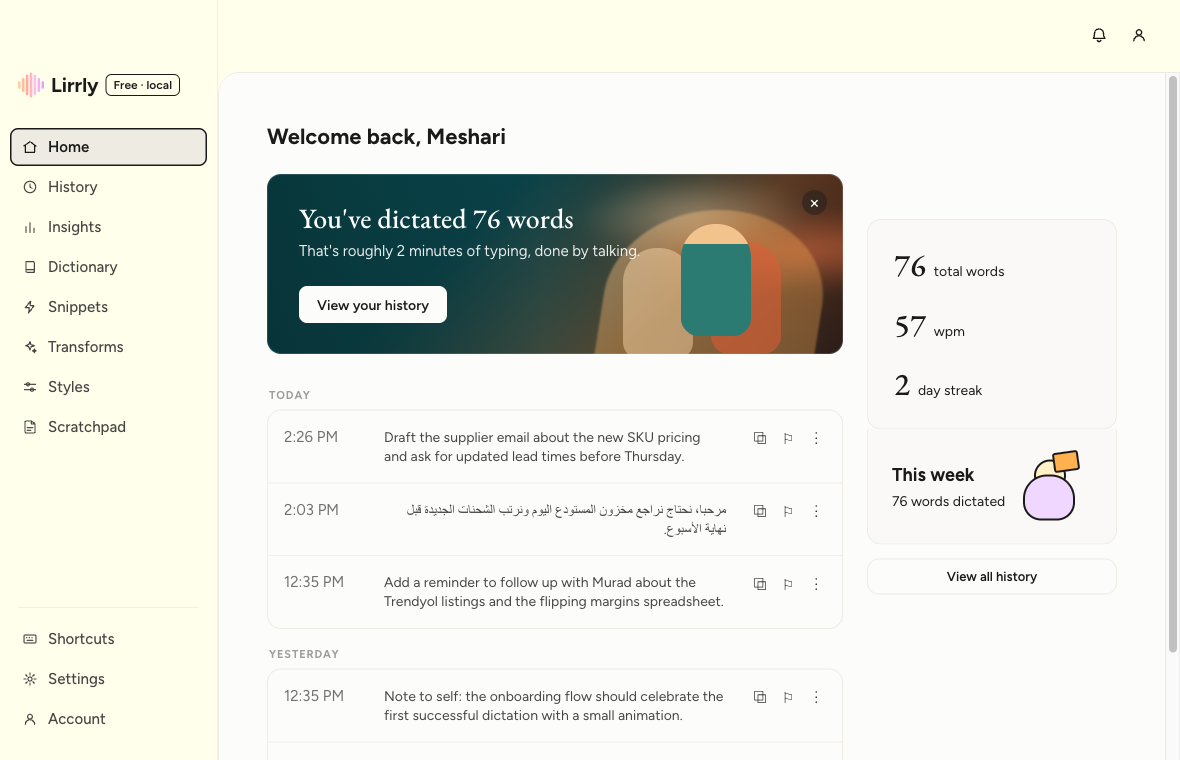
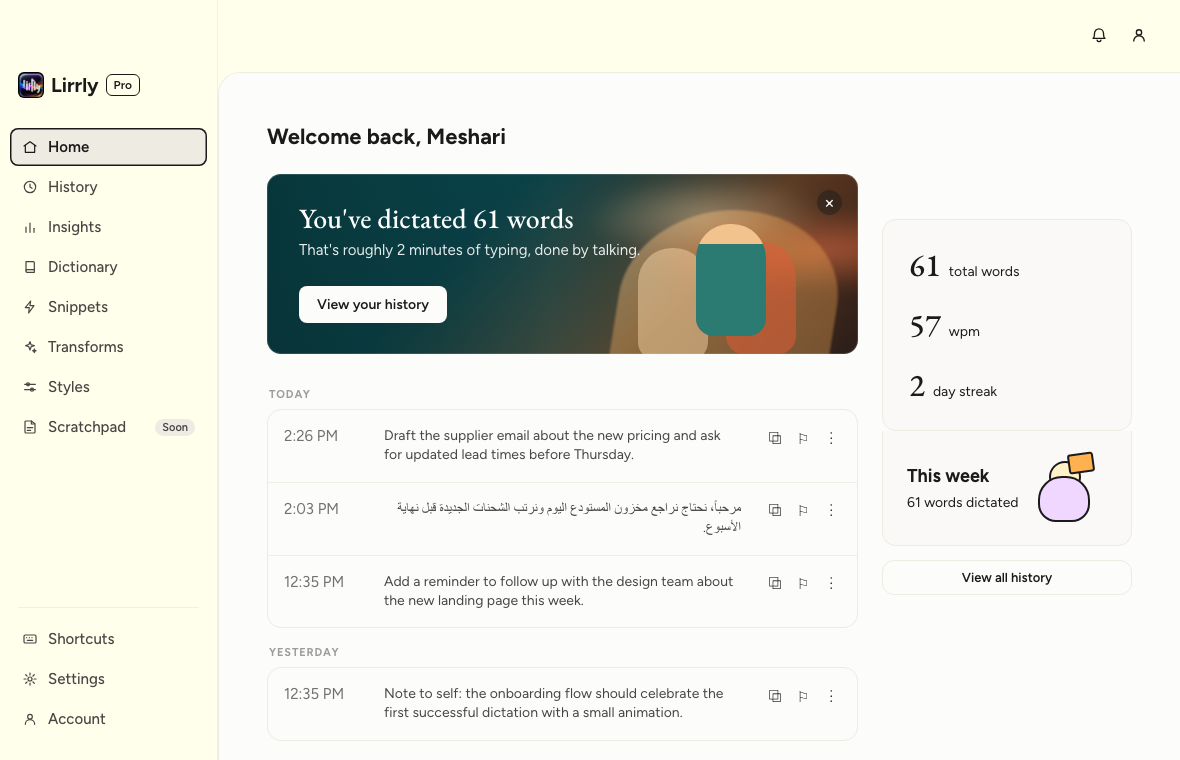
Site: current copy, a 0.4.4 Hub screenshot, and the Pro naming note
- "New in 0.3" becomes "Transforms"; auto-updates leave the roadmap
  chips (they shipped in 0.4.0) — on the English and the Arabic page.
- hub-home.png (also the og:image) is re-shot from the 0.4.4 frontend's
  browser preview with neutral demo entries: v9 mark and the Pro pill.
- llms.txt: no version tag on Transforms; mentions signed updates.
- ADR-004 addendum: "Pro" is the free app's public name now, so a paid
  tier needs another one.

diff --git a/site/ar/index.html b/site/ar/index.html
@@ -212,7 +212,7 @@
     <section class="section band" id="transforms">
       <div class="shell">
         <div class="sec-head">
-          <p class="eyebrow" data-reveal>جديد في 0.3</p>
+          <p class="eyebrow" data-reveal>التحويلات</p>
           <h2 class="display-2" data-reveal style="--d:60ms">حدّد. <span class="kbd-word" dir="ltr">⌥T</span>. <em>وتتحوّل.</em></h2>
           <p class="body-m sec-sub" data-reveal style="--d:140ms">حدّد نصاً في أي تطبيق — إيميل، مستند، محادثة — واضغط <span dir="ltr">⌥T</span>، والتحويل المفعّل يعيد كتابته في مكانه.</p>
         </div>
@@ -272,7 +272,6 @@
             <li class="chip-soon">وضع الأوامر</li>
             <li class="chip-soon">المسودة</li>
             <li class="chip-soon">محرّك محلي — بدون إنترنت، ومجاناً</li>
-            <li class="chip-soon">تحديثات تلقائية</li>
           </ul>
         </div>
         <a class="repo-card" href="https://github.com/m55h11r11/wispralt" data-reveal style="--d:140ms">

diff --git a/site/index.html b/site/index.html
@@ -212,7 +212,7 @@
     <section class="section band" id="transforms">
       <div class="shell">
         <div class="sec-head">
-          <p class="eyebrow" data-reveal>New in 0.3</p>
+          <p class="eyebrow" data-reveal>Transforms</p>
           <h2 class="display-2" data-reveal style="--d:60ms">Select. <span class="kbd-word">⌥T</span>. <em>Transformed.</em></h2>
           <p class="body-m sec-sub" data-reveal style="--d:140ms">Select text in any app — an email, a doc, a chat — press ⌥T, and the active transform rewrites it in place.</p>
         </div>
@@ -272,7 +272,6 @@
             <li class="chip-soon">Command mode</li>
             <li class="chip-soon">Scratchpad</li>
             <li class="chip-soon">Local engine — offline, $0</li>
-            <li class="chip-soon">Auto-updates</li>
           </ul>
         </div>
         <a class="repo-card" href="https://github.com/m55h11r11/wispralt" data-reveal style="--d:140ms">

diff --git a/ARCHITECTURE.md b/ARCHITECTURE.md
@@ -49,7 +49,7 @@ Arrows show intended application calls. The `Full → Native` transcription edge
 
 | Component | Location | Responsibility | Current boundary |
 |---|---|---|---|
-| Full app 0.4.3 | `lirrly/` | Dictation anywhere, FlowBar, transforms, dictionary/snippets, history, updater | Direct distribution; uses Accessibility/private macOS window support; not sandboxed for MAS |
+| Full app 0.4.4 | `lirrly/` | Dictation anywhere, FlowBar, transforms, dictionary/snippets, history, updater | Direct distribution; uses Accessibility/private macOS window support; not sandboxed for MAS |
 | Lite 1.0.3 | `lirrly-lite/` | Dictate/edit/transform/copy within its own window | Separate sandboxed MAS app (1.0.2 live since 2026-09-30; 174 storefronts including the EU as of 2026-10-03; 1.0.3 = the v9 icon plus core's one retry on a short Groq 429, no Lite source change); proprietary source kept out of public clean cut |
 | Core 0.1.0 | `crates/lirrly-core/` | Groq multipart/audio and chat requests, shared prompts, Keychain abstraction | Rust library compiled into both binaries; no independent server |
 | Insights | `insights/` | Opt-in error reports, manual feedback, basic admin dashboard | Private FastAPI service; independent from inference; full app only |
@@ -74,7 +74,7 @@ The root is not a JavaScript monorepo workspace or Cargo workspace. There are **
 - `docs/adr/001` through `005` record stack, full-app distribution, planned local/streaming work, licensing, and Lite distribution decisions. ADR-003 is a plan, not installed functionality.
 - `docs/RELEASE.md` is the release runbook; `docs/appstore/` is private listing/submission documentation.
 - `docs/screenshots/`, `appstore-screenshots/`, desktop `icons/`, and `site/img/` contain existing assets. `site/fonts/` contains self-hosted fonts. These are not runtime services.
-- **App icon (2026-10-01):** both apps' `src-tauri/icons/` sets and the four `site/img/` icons come from the owner's **v9** artwork (`app-icon-output/2026-10-01/lirrly-v9-r-hook.png`), regenerated with `tauri icon` / plain resizes. v9 is the June v8 woven-waves image with one change made by image generation (gpt-image-2 through the Hermes helper, fed v8 plus a one-change prompt): the tallest bar gained an r hook, so the letters read "lirrly" instead of "lirlly". Measured against v8: bar tops unchanged to the pixel, 0.03% of pixels outside the hook differ strongly. The published builds (full 0.4.2, Lite 1.0.2) still carry the older readable wordmark; v9 ships with the next builds. Remaining known property, verified on this macOS 26.6 machine: the artwork sits on an opaque black canvas (no alpha), which macOS 26 clips into the system rounded rectangle but macOS 12–15 show as a black square — a defect every Lirrly icon so far has had. Fixing it needs another generated image (AGENTS.md forbids editing assets with code) and the helper on the VPS currently hardcodes `background: opaque`. The tray template icon (`tray-icon-16/32.png`) is separate and unchanged. **Since 2026-10-05 the in-app marks are v9 too:** the Hub sidebar and onboarding show `lirrly/src/assets/lirrly-logo.png` (a byte copy of `src-tauri/icons/128x128@2x.png`) through `LogoMark`, replacing the drawn `WaveMark` SVG, and the website's nav/footer show `site/img/icon-192.png` instead of the CSS five-bar mark; the rounding is display CSS only. The monochrome tray glyph still predates v9 — a matching template image needs image generation.
+- **App icon (2026-10-01):** both apps' `src-tauri/icons/` sets and the four `site/img/` icons come from the owner's **v9** artwork (`app-icon-output/2026-10-01/lirrly-v9-r-hook.png`), regenerated with `tauri icon` / plain resizes. v9 is the June v8 woven-waves image with one change made by image generation (gpt-image-2 through the Hermes helper, fed v8 plus a one-change prompt): the tallest bar gained an r hook, so the letters read "lirrly" instead of "lirlly". Measured against v8: bar tops unchanged to the pixel, 0.03% of pixels outside the hook differ strongly. The published builds (full 0.4.2, Lite 1.0.2) still carry the older readable wordmark; v9 ships with the next builds. Remaining known property, verified on this macOS 26.6 machine: the artwork sits on an opaque black canvas (no alpha), which macOS 26 clips into the system rounded rectangle but macOS 12–15 show as a black square — a defect every Lirrly icon so far has had. Fixing it needs another generated image (AGENTS.md forbids editing assets with code) and the helper on the VPS currently hardcodes `background: opaque`. The tray template icon (`tray-icon-16/32.png`) is separate and unchanged. **Since 2026-10-05 the in-app marks are v9 too:** the Hub sidebar and onboarding show `lirrly/src/assets/lirrly-logo.png` (a byte copy of `src-tauri/icons/128x128@2x.png`) through `LogoMark`, replacing the drawn `WaveMark` SVG, and the website's nav/footer show `site/img/icon-192.png` instead of the CSS five-bar mark; the rounding is display CSS only. The monochrome tray glyph still predates v9 — a matching template image needs image generation. `site/img/hub-home.png` (the site's Hub screenshot and `og:image`) was re-shot on 2026-10-07 from the 0.4.4 frontend in its plain-browser design preview (`?view=settings`, history seeded into localStorage with neutral demo entries) at the asset's 1180×760, so it shows the v9 mark and the Pro pill; the old one showed the drawn mark, "Free · local" and real business names.
 - `design/`, root `HANDOFF-*`, `PARITY-PLAN.md`, and `WISPR-CLONE-BLUEPRINT.md` are historical/reference material. They must not override current code evidence.
 - `.context/` holds audit evidence and collaboration scratch files; `handoffs/` and `MASTER-HANDOFF.md` retain local history. `signing/` holds private operational scripts and credentials and must remain excluded from publication.
 
@@ -256,7 +256,7 @@ Full client reporting is off by default. `reportError` checks `shareAnalytics`, 
 
 Transport sanitizing (2026-09-14) plus the server-side scrub, retention, erase channel and honest pseudonymity wording (2026-09-17) close both halves of audit A11 and address A24–A28. The install ID is described as pseudonymous everywhere it appears — Settings (which now shows it, copyable, next to the crash-report toggle), the privacy page (with the retention numbers), and this document — because feedback linking is what makes deletion requests satisfiable.
 
-**Live verification (2026-09-17, on the VPS):** deployed from this source; process runs as `insights`; `/health` 200 (write probe) locally and publicly; a planted `gsk_…` key + email in a real `POST /v1/report` was stored as `key [key] owner [email]`; `POST /admin/erase` removed the probe row; a 70 KB body got 413 from Caddy; journald shows startup lines only; the daily backup cron ran and its output passed `PRAGMA integrity_check`. Deploy gotcha: a venv is not relocatable — build it at its final path, or every shebang points at the dead one (`status=203/EXEC`).
+**Live verification (2026-09-17, on the VPS):** deployed from this source; process runs as `insights`; `/health` 200 (write probe) locally and publicly; a planted `gsk_…` key + email in a real `POST /v1/report` was stored as `key [key] owner [email]`; `POST /admin/erase` removed the probe row; a 70 KB body got 413 from Caddy; journald shows startup lines only; the daily backup cron ran and its output passed `PRAGMA integrity_check`. Deploy gotcha: a venv is not relocatable — build it at its final path, or every shebang points at the dead one (`status=203/EXEC`). **Redeployed 2026-10-05 (2:07 PM) for A42 + A45:** the 11 tests passed on the VPS under Python 3.11 as the `insights` user (as root, the read-only-database health test cannot fail, because root ignores the `chmod`); wheels were downloaded first, then the service was stopped, the old 3.9 venv moved to `/root/backups/lirrly-insights-2026-10-05/` with the previous `app.py`, `requirements.txt` and an online SQLite backup, a 3.11 venv built at the final path from those wheels, and the service restarted — about 24 s down. Public `/health` and `/live` 200, `/admin` 401 without credentials, an empty report 422.
 
 ## 8. Website, distribution, and updates
 
@@ -266,13 +266,15 @@ Scroll-reveal content is **visible by default**; `main.js` adds `.js-reveal` to 
 
 Marketing, onboarding, README, `llms.txt` and the privacy page were reconciled with actual behaviour on 2026-09-14 (audit A29). The claims “no Lirrly server”, “no telemetry”, “nothing phoning home”, “nothing leaves this Mac except the audio”, “your key never leaves this Mac” and an “export” affordance that was never built are all gone. The accurate position — no account, no Lirrly service in the dictation path, diagnostics opt-in and off by default, the key sent only to Groq — is what is now published.
 
-The full application currently distributes an Apple Silicon DMG via GitHub Releases and a separate Homebrew tap (`m55h11r11/homebrew-lirrly`). **Published release: 0.4.3 (2026-10-03, 5:45 AM)** on all three channels — GitHub release marked Latest, updater feed `latest.json`, tap cask — from public commit `f0100e5` (clean cut of the private `v0.4.3` commit; public CI green before going live). Verified on macserver the same morning: the feed serves 0.4.3 and its archive (byte-identical to the notarized build) verifies against the updater key every installed copy embeds; the public DMG matches its published SHA-256 and Gatekeeper accepts its app as Notarized Developer ID; `brew install --cask` delivers 0.4.3 and uninstalls cleanly; lirrly.com serves the v9 icons and the 0.4.3 privacy text. 0.4.2 (2026-09-26) was the previous release. The full app has nothing unpublished on `wave2-lite`. The config minimum is macOS 12.0; only an aarch64 release was verified. An Intel/macOS-version compatibility matrix has not been demonstrated. Do not imply all Macs are supported from the OS minimum alone.
+The full application currently distributes an Apple Silicon DMG via GitHub Releases and a separate Homebrew tap (`m55h11r11/homebrew-lirrly`). **Published release: 0.4.4 (2026-10-05, ~2:20 PM)** on all three channels — GitHub release marked Latest, updater feed `latest.json`, tap cask — from public commit `5256f2e` (clean cut of the private `v0.4.4` commit `868a037`; the public-CI mirror on macserver and then public CI itself were green before going live, and `--publish-only` confirmed the artifacts byte-identical to phase 1's manifest). Verified on macserver the same afternoon: the feed serves 0.4.4 and its archive verifies against the updater key 0.4.3 embeds; the public DMG matches its published SHA-256 and Gatekeeper accepts its app as Notarized Developer ID; `releases/latest/download/Lirrly.dmg` is byte-identical to it (the stable asset was also backfilled onto v0.4.3 before the site switched to it); `brew install --cask` delivers 0.4.4 and uninstalls cleanly; lirrly.com serves the English and Arabic pages. 0.4.3 (2026-10-03) was the previous release. The full app has nothing unpublished on `wave2-lite`. The config minimum is macOS 12.0; only an aarch64 release was verified. An Intel/macOS-version compatibility matrix has not been demonstrated. Do not imply all Macs are supported from the OS minimum alone.
 
 Full updater flow: Mounting Settings→Account quietly checks GitHub's latest release `latest.json` (skipped while an install is running or waiting for its restart); the Tauri plugin selects a platform archive; on user request it downloads the archive, verifies its update signature, and installs it. Restart is explicit, but between install and restart the old process runs from a deleted bundle and macOS refuses its permission checks (A36). So a successful install writes a marker (`lirrly:update-installed`, shared localStorage, stamped with the time); while a marker from this run exists the FlowBar refuses new dictations and transforms with "Restart Lirrly to finish the update" and a Restart button (the FlowBar capability gained `process:allow-restart` for it), and the Hub card keeps offering Restart instead of the same install. A take already under way is never interrupted. Any restart makes the marker stale and it is removed. **A39 (0.4.4):** the install is single-flight at module level (`src/lib/updater.ts`); an update card that remounts mid-download (leaving Account and coming back) only joins it via `joinInstall` and shows its progress — it can no longer start a second `downloadAndInstall` racing the first over the bundle swap — and an unmounted card stops receiving progress. The signature authenticates the **archive**, not a separately signed JSON manifest. Metadata/URLs still rely on the HTTPS/release service; the old “signed manifest” wording overstates the mechanism.
 
 **First real update, 2026-09-26 — passed end to end (macserver1, driven through the accessibility API plus one verified real click; kit and logs in `.context/update-e2e-2026-09-26/`):** the published 0.4.1, installed from its own DMG, found 0.4.2 through that quiet check; **Update now** downloaded the archive, verified it against the key embedded in 0.4.1 and swapped the bundle in place (passes `codesign --verify --deep --strict`); **Restart** relaunched it within a second as 0.4.2, which then reported itself up to date. The relaunched process is its own TCC-responsible process (`launchctl procinfo`), so permissions are not attributed to the dead old one; Accessibility and Microphone grants and the designated requirement were unchanged, the history file was byte-identical, Gatekeeper still reported Notarized Developer ID, and the installed CDHash equalled the directly installed 0.4.2's. Signature rejection was exercised separately with the plugin's exact verification (`minisign-verify` 0.2.5, legacy allowed): only the genuine archive with its own signature verifies — a one-byte flip, a truncation, or 0.4.1's signature on the 0.4.2 archive all fail before anything is installed. The macOS installer path (`tauri-plugin-updater` 2.11.0) renames the running bundle into a temp dir, moves the extracted one into place and deletes the old one; for an admin user in `/Applications` no password prompt appears. That run surfaced two rough edges, both fixed in 0.4.3 (A36). **Between install and restart the old process runs from a deleted executable, so tccd rejects every permission check it makes** (`proc_pidpath_audittoken` → ENOENT) — microphone, paste via Accessibility, and assistive tools reading its window all fail until Restart; 0.4.3 refuses new takes until the restart (see above). And the tray menu's **“Check for updates…” opened the GitHub releases page instead of this flow**; it now opens the Hub at Account and runs the check there.
 
 **Second real update, 2026-10-03 — published 0.4.2 → published 0.4.3, PASS on the first run (macserver1; kit and log in `.context/update-e2e-2026-10-03/`):** 0.4.2, installed from its own DMG, offered "0.4.3 available" from its quiet check; **Update now** installed in 73 s (bundle passes `codesign --verify --deep --strict`); a verified real click on **Restart** relaunched it as its own TCC-responsible process reporting 0.4.3 and "up to date". The installed CDHash equals the app inside the published 0.4.3 DMG; Gatekeeper and the staple check pass; Accessibility and Microphone grants and the designated requirement are unchanged; the history entries are unchanged (compared without the ids 0.4.3 backfills). **A36's tray half, on the real artifact:** with the Hub hidden and the update card unmounted, the menu bar's "Check for updates..." (pressed through the accessibility API) opened the Hub at Account and ran a visible check that ended "up to date" — text the card's quiet mount check never shows, so it can only have come from the tray's request. A36's restart half cannot be exercised by a 0.4.2 → 0.4.3 update (0.4.2's updater writes no marker); it is covered by unit tests and first runs for real on the next update.
+
+**Third real update, 2026-10-05 — published 0.4.3 → published 0.4.4, PASS (macserver1; kit and logs in `.context/update-e2e-2026-10-05/`; run 1 stopped safely at launch because macOS restored the Hub minimized, where WebKit exposes nothing to accessibility — run 2 opened it from the tray's Home item):** 0.4.3 offered "0.4.4 available"; **Update now** installed in 84 s (`codesign --verify --deep --strict` passes); **A36's restart half on the real artifact, first time:** right after the bundle swap 0.4.3 wrote `lirrly:update-installed` = `{"version":"0.4.4",…}` to its WebKit localStorage (read from disk with sqlite), and after a verified real click on **Restart** the relaunched 0.4.4 — its own TCC-responsible process — dropped that marker as stale. 0.4.4 reported itself up to date; its CDHash equals the app in the published 0.4.4 DMG; Gatekeeper and the staple check pass; grants, designated requirement and history entries are unchanged; the tray's "Check for updates..." still opens the Hub at Account and runs a visible check. A39 (the single-flight install) lives in 0.4.4's updater, so a real update exercises it first on 0.4.4 → next.
 
 `release.sh`: clean-tree check → version changes across every version-bearing file (with an equality assertion) → frontend, full-Rust, core-crate and architecture/IPC gates → signed/notarized bundle → trust checks → local commit/tag → **public-source provenance gate** → GitHub release uploaded as a **draft** targeted at that public commit → Homebrew cask commit prepared → **go-live flip** (draft→published+latest) immediately followed by the tap push (audit A31: publishing used to happen before the tap update, so a tap failure left channels straddling versions; now nothing is public until every channel is one push away, and a tap-push failure after the flip prints the exact recovery command). Private signing material stays outside source. Staging is an explicit file list rather than `git add -A`, which had previously swept automation droppings — including a live API key — into the index. **0.4.4 (audit A43, A46):** phase 1 asserts the built app's `CFBundleShortVersionString` equals the release version and records SHA-256s of the DMG, archive and signature in `release-manifest.json` beside the bundle; `--publish-only` refuses anything not byte-identical, so a later test build can no longer be uploaded and signed into `latest.json` under this version. The DMG is also uploaded as `Lirrly.dmg`, the stable name the website links. The tap step verifies the cask now carries this version and SHA-256, and a failed tap commit stops the release before anything is public instead of being swallowed by `|| true`.
 
@@ -518,7 +520,7 @@ All paths below participate in the drift check. Images/fonts are inventoried by 
[8 lines of base64/hex data omitted]
@@ -614,9 +616,9 @@ All paths below participate in the drift check. Images/fonts are inventoried by 
[12 lines of base64/hex data omitted]

diff --git a/docs/adr/004-licensing-agpl-and-monetization.md b/docs/adr/004-licensing-agpl-and-monetization.md
@@ -60,3 +60,11 @@ arriving later, and the open-source core staying free.
 The project wants stronger commercial protection than AGPL provides (e.g. forbidding
 competitors' commercial use *now*) → consider a source-available license such as BSL-1.1,
 accepting that it is no longer OSI "open source" and conflicts with the current brand.
+
+## Addendum (2026-10-05) — "Pro" is now the free app's public name
+
+The website and the full app's Hub call the free, open-source full app **Lirrly Pro**
+(the bundle, cask and update channel keep the name Lirrly; the sandboxed App Store app
+stays Lirrly Lite). The "paid Pro tier" wording above therefore no longer names a product:
+the site's FAQ now says only that paid extras may arrive later while the open-source app
+stays free. A future paid tier or service needs a name other than "Pro".
